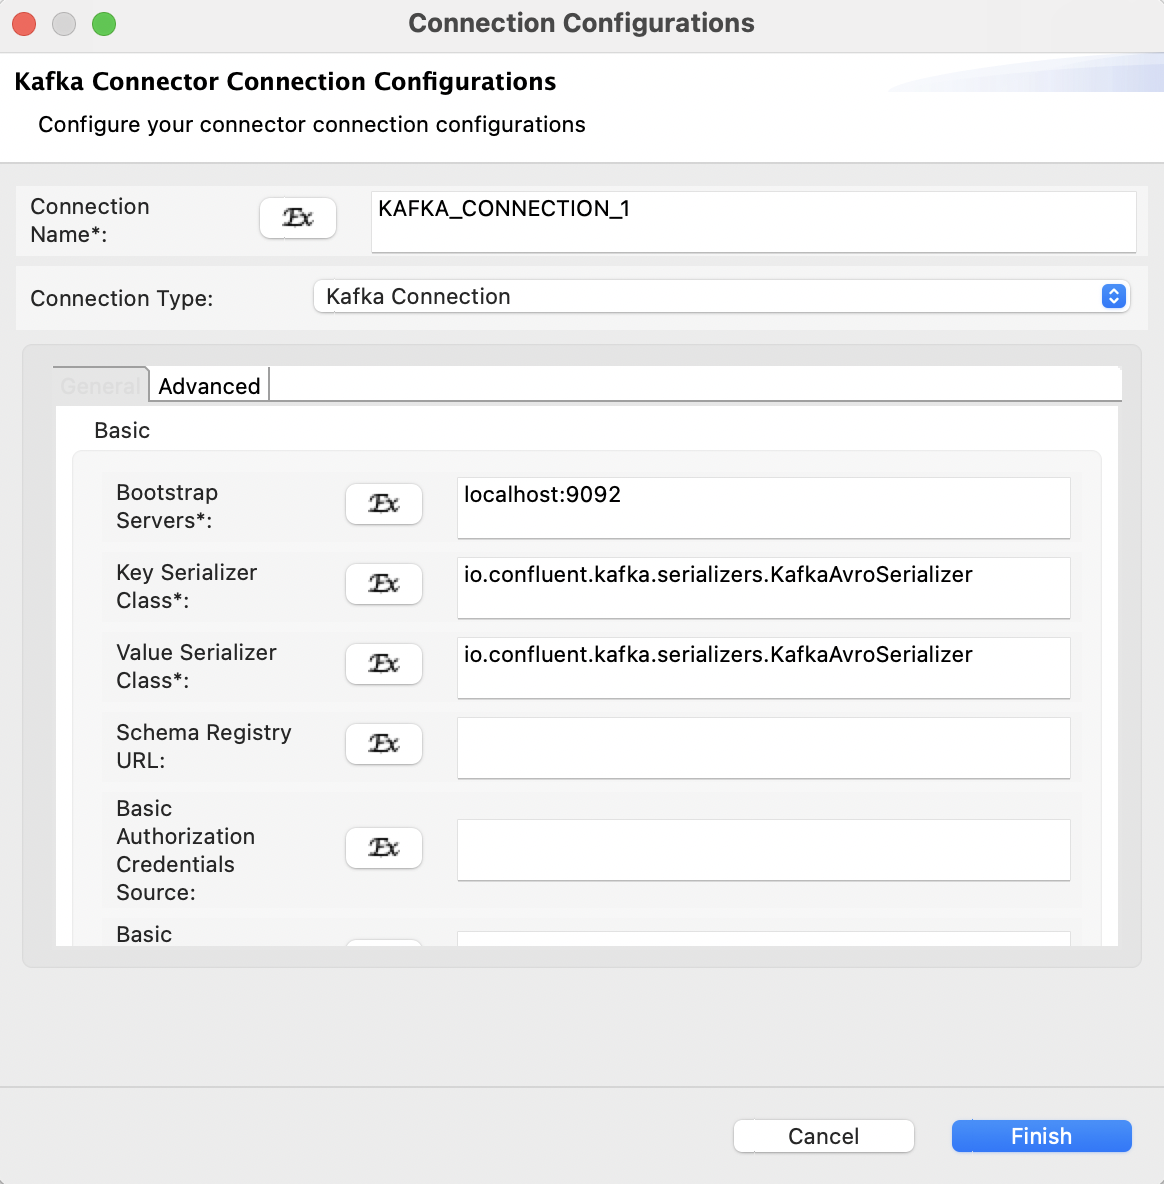
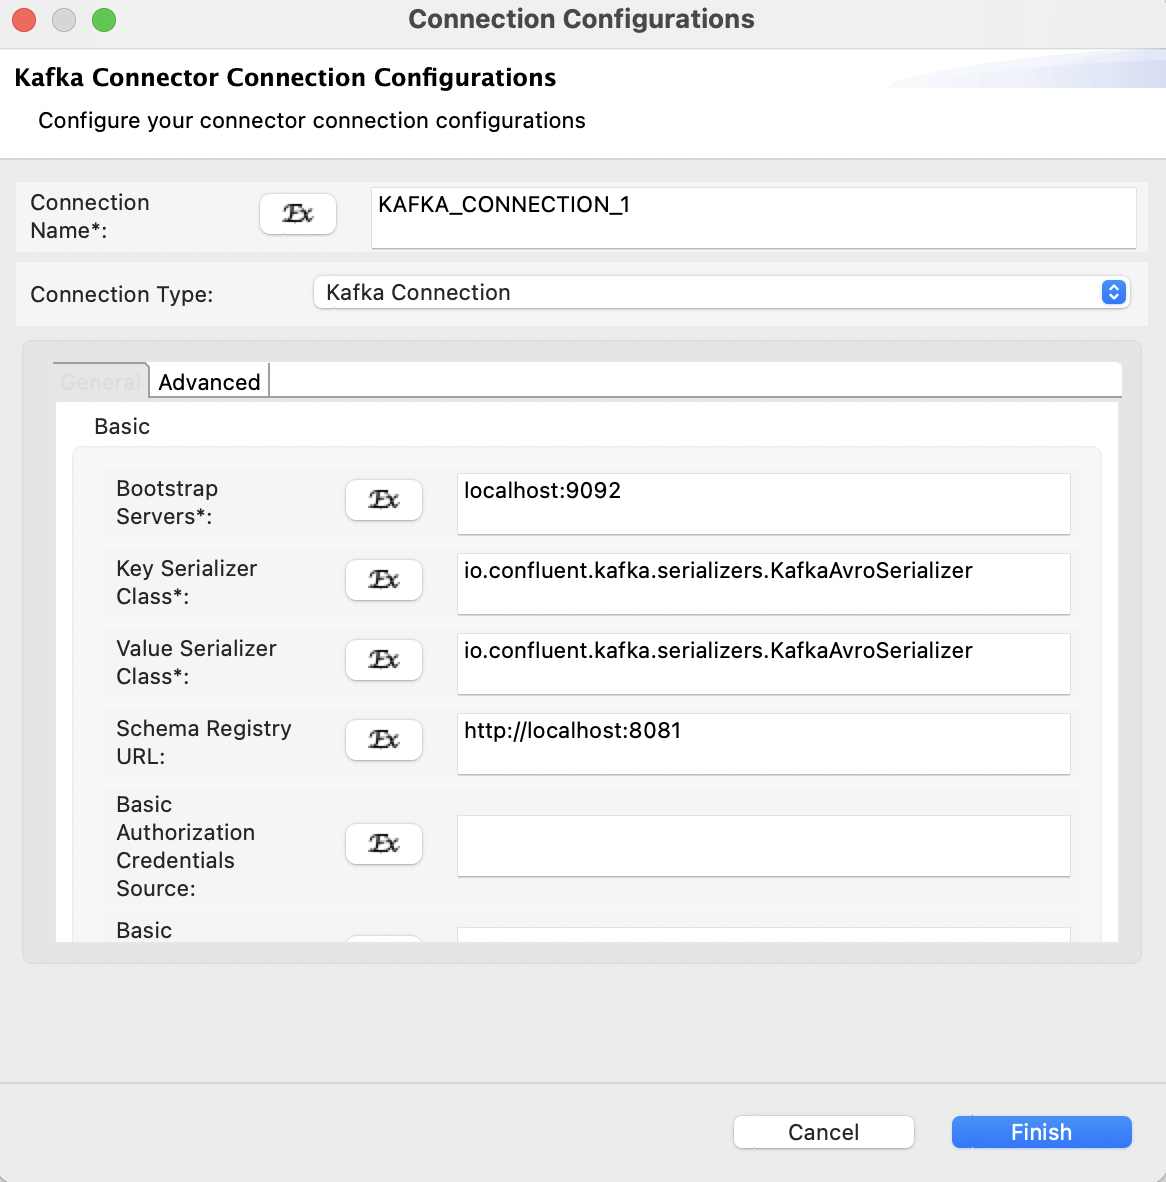
Update formatting

diff --git a/en/docs/reference/connectors/kafka-connector/kafka-connector-producer-example.md b/en/docs/reference/connectors/kafka-connector/kafka-connector-producer-example.md
@@ -36,21 +36,20 @@ Follow these steps to set up the Integration Project and the Connector Exporter 
     <a href="{{base_path}}/assets/img/integrate/connectors/kafka"><img src="{{base_path}}/assets/img/integrate/connectors/kafka/kafka-add-connection.png" title="Create Connection" width="800" alt="Create Connection"/></a>
 
     In the popup window, the following parameters must be provided.
-- Bootstrap Servers - The Kafka brokers listed as host1:port1 and host2:port2.
-- Key Serializer Class - The serializer class for the key that implements the serializer interface.
-- Value Serializer Class - The serializer class for the value that implements the serializer interface.
 
-    <a href="{{base_path}}/assets/img/integrate/connectors/kafka"><img src="{{base_path}}/assets/img/integrate/connectors/kafka/kafka-connection-configuration.png" title="Connection Configuration" width="800" alt="Connection Configuration"/></a>
+    - Bootstrap Servers - The Kafka brokers listed as host1:port1 and host2:port2.
+    - Key Serializer Class - The serializer class for the key that implements the serializer interface.
+    - Value Serializer Class - The serializer class for the value that implements the serializer interface.
 
-10. After the connection is successfully created, select the created connection as 'Connection' from the drop down menu in the properties window.
+11. After the connection is successfully created, select the created connection as 'Connection' from the drop down menu in the properties window.
 
-11. Next, configure the following parameters in the properties window
-- Topic - The name of the topic
-- Partition Number - The partition number of the topic
+12. Next, configure the following parameters in the properties window.
+    - Topic - The name of the topic
+    - Partition Number - The partition number of the topic
 
-  <a href="{{base_path}}/assets/img/integrate/connectors/kafka"><img src="{{base_path}}/assets/img/integrate/connectors/kafka/kafka-properties.png" title="Kafka Properties" width="800" alt="Kafka Properties"/></a>
+      <a href="{{base_path}}/assets/img/integrate/connectors/kafka"><img src="{{base_path}}/assets/img/integrate/connectors/kafka/kafka-properties.png" title="Kafka Properties" width="800" alt="Kafka Properties"/></a>
 
-12. You can find the API XML as follows:
+13. You can find the API XML as follows:
     ```xml
     <?xml version="1.0" encoding="UTF-8"?>
     <api context="/publishMessages" name="KafkaTransport" xmlns="http://ws.apache.org/ns/synapse">
@@ -66,7 +65,7 @@ Follow these steps to set up the Integration Project and the Connector Exporter 
         </resource>
     </api>
     ```
-13. Following is the local entry generated: 
+14. Following is the local entry generated: 
     ```xml
     <?xml version="1.0" encoding="UTF-8"?>
     <localEntry key="KAFKA_CONNECTION_1" xmlns="http://ws.apache.org/ns/synapse">
@@ -115,7 +114,7 @@ You can further refer the application deployed through the CLI tool. See the ins
 **Create a topic**:
 
 Let’s create a topic named “test” with a single partition and only one replica.
-Navigate to the <KAFKA_HOME> and run following command.
+Navigate to the `<KAFKA_HOME>` and run following command.
    
 ```bash
 bin/kafka-topics.sh --create --bootstrap-server localhost:9092 --replication-factor 1 --partitions 1 --topic test     
@@ -131,7 +130,7 @@ curl -X POST -d '{"name":"sample"}' "http://localhost:8290/publishMessages" -H "
 
 **Expected Response**: 
    
-Navigate to the <KAFKA_HOME> and run the following command to verify the messages:
+Navigate to the `<KAFKA_HOME>` and run the following command to verify the messages:
 
 ```bash
 bin/kafka-console-consumer.sh --bootstrap-server localhost:9092 --topic test --from-beginning

diff --git a/en/docs/reference/connectors/kafka-connector/kafka-connector-avro-producer-example.md b/en/docs/reference/connectors/kafka-connector/kafka-connector-avro-producer-example.md
@@ -84,72 +84,68 @@ Follow these steps to set up the Integration Project and the Connector Exporter 
    <a href="{{base_path}}/assets/img/integrate/connectors/kafka"><img src="{{base_path}}/assets/img/integrate/connectors/kafka/kafka-avro-example.png" title="Kafka Avro Example" width="800" alt="Kafka Avro Example"/></a>
 
 7. Create a connection from the properties window by clicking on the '+' icon as shown below.
-
    <a href="{{base_path}}/assets/img/integrate/connectors/kafka"><img src="{{base_path}}/assets/img/integrate/connectors/kafka/kafka-add-connection.png" title="Create Connection" width="800" alt="Create Connection"/></a>
 
-   In the popup window, provide the following parameters and click **Finish**.
-
+8. In the popup window, provide the following parameters and click **Finish**.
    <table>
-     <tr>
+      <tr>
          <th>Property Name</th>
          <th>Value</th>
-     </tr>
-
-     <tr>
-         <th>Bootstrap Servers</th>
-         <th>localhost:9092</th>
-     </tr>
-
-     <tr>
-         <th>Key Serializer Class</th>
-         <th>io.confluent.kafka.serializers.KafkaAvroSerializer</th>
-     </tr>
-
-     <tr>
-         <th>Value Serializer Class</th>
-         <th>io.confluent.kafka.serializers.KafkaAvroSerializer</th>
-     </tr>
-  
-     <tr>
-         <th>Schema Registry URL</th>
-         <th>http://localhost:8081</th>
-     </tr>
+      </tr>
+      <tr>
+         <td>Bootstrap Servers</td>
+         <td>localhost:9092</td>
+      </tr>
+      <tr>
+         <td>Key Serializer Class</td>
+         <td>io.confluent.kafka.serializers.KafkaAvroSerializer</td>
+      </tr>
+      <tr>
+         <td>Value Serializer Class</td>
+         <td>io.confluent.kafka.serializers.KafkaAvroSerializer</td>
+      </tr>
+      <tr>
+         <td>Schema Registry URL</td>
+         <td>http://localhost:8081</td>
+      </tr>
    </table>
+
+    
+    <a href="{{base_path}}/assets/img/integrate/connectors/kafka"><img src="{{base_path}}/assets/img/integrate/connectors/kafka/kafka-connection-configuration.png" title="Connection Configuration" width="500" alt="Connection Configuration"/></a>
 
 10. After the connection is successfully created, select the created connection as 'Connection' from the drop-down menu in the properties window.
 
 11. Next, configure the following parameters in the properties window
-
-<table>
-   <tr>
-      <th>Property Name</th>
-      <th>Value</th>
-   </tr>
-   <tr>
-      <th>Partition Number</th>
-      <th>1</th>
-   </tr>
-
-   <tr>
-      <th>Topic</th>
-      <th>$ctx:topic</th>
-   </tr>
-
-   <tr>
-      <th>Key</th>
-      <th>$ctx:key</th>
-   </tr>
-
-   <tr>
-      <th>Value</th>
-      <th>$ctx:value</th>
-   </tr>
-
-   <tr>
-      <th>Value Schema</th>
-      <th>$ctx:valueSchema</th>
-   </tr>
-</table>
+   <table>
+      <tr>
+         <th>Property Name</th>
+         <th>Value</th>
+      </tr>
+      <tr>
+         <td>Partition Number</td>
+         <td>1</td>
+      </tr>
+   
+      <tr>
+         <td>Topic</td>
+         <td>$ctx:topic</td>
+      </tr>
+   
+      <tr>
+         <td>Key</td>
+         <td>$ctx:key</td>
+      </tr>
+   
+      <tr>
+         <td>Value</td>
+         <td>$ctx:value</td>
+      </tr>
+   
+      <tr>
+         <td>Value Schema</td>
+         <td>$ctx:valueSchema</td>
+      </tr>
+   </table>
 
 12. You can find the complete API XML configuration below.
 
